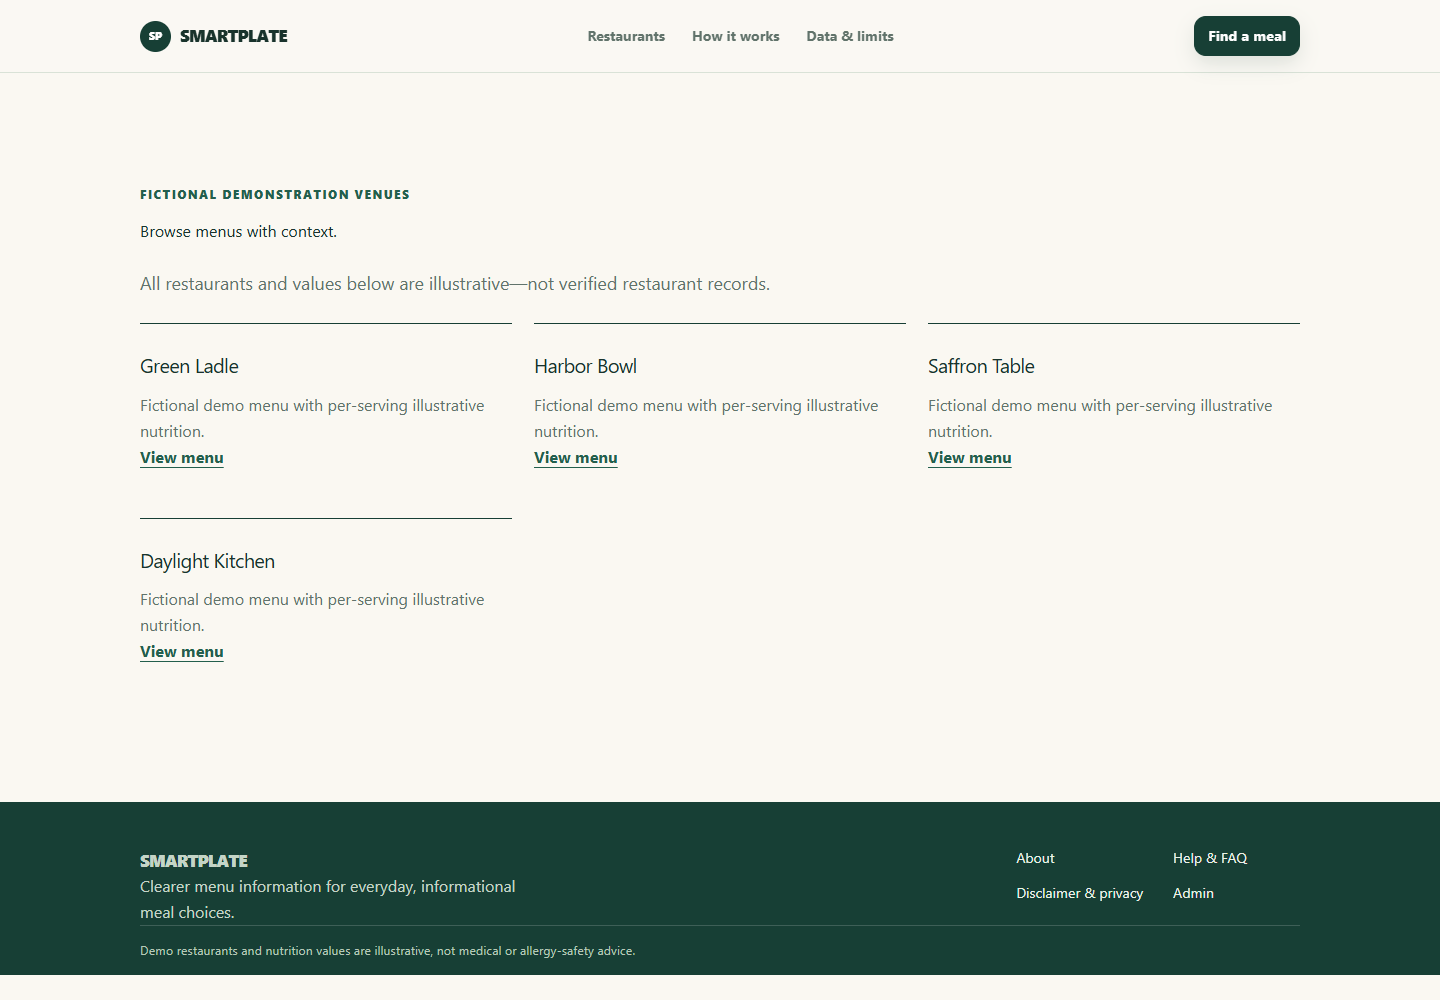
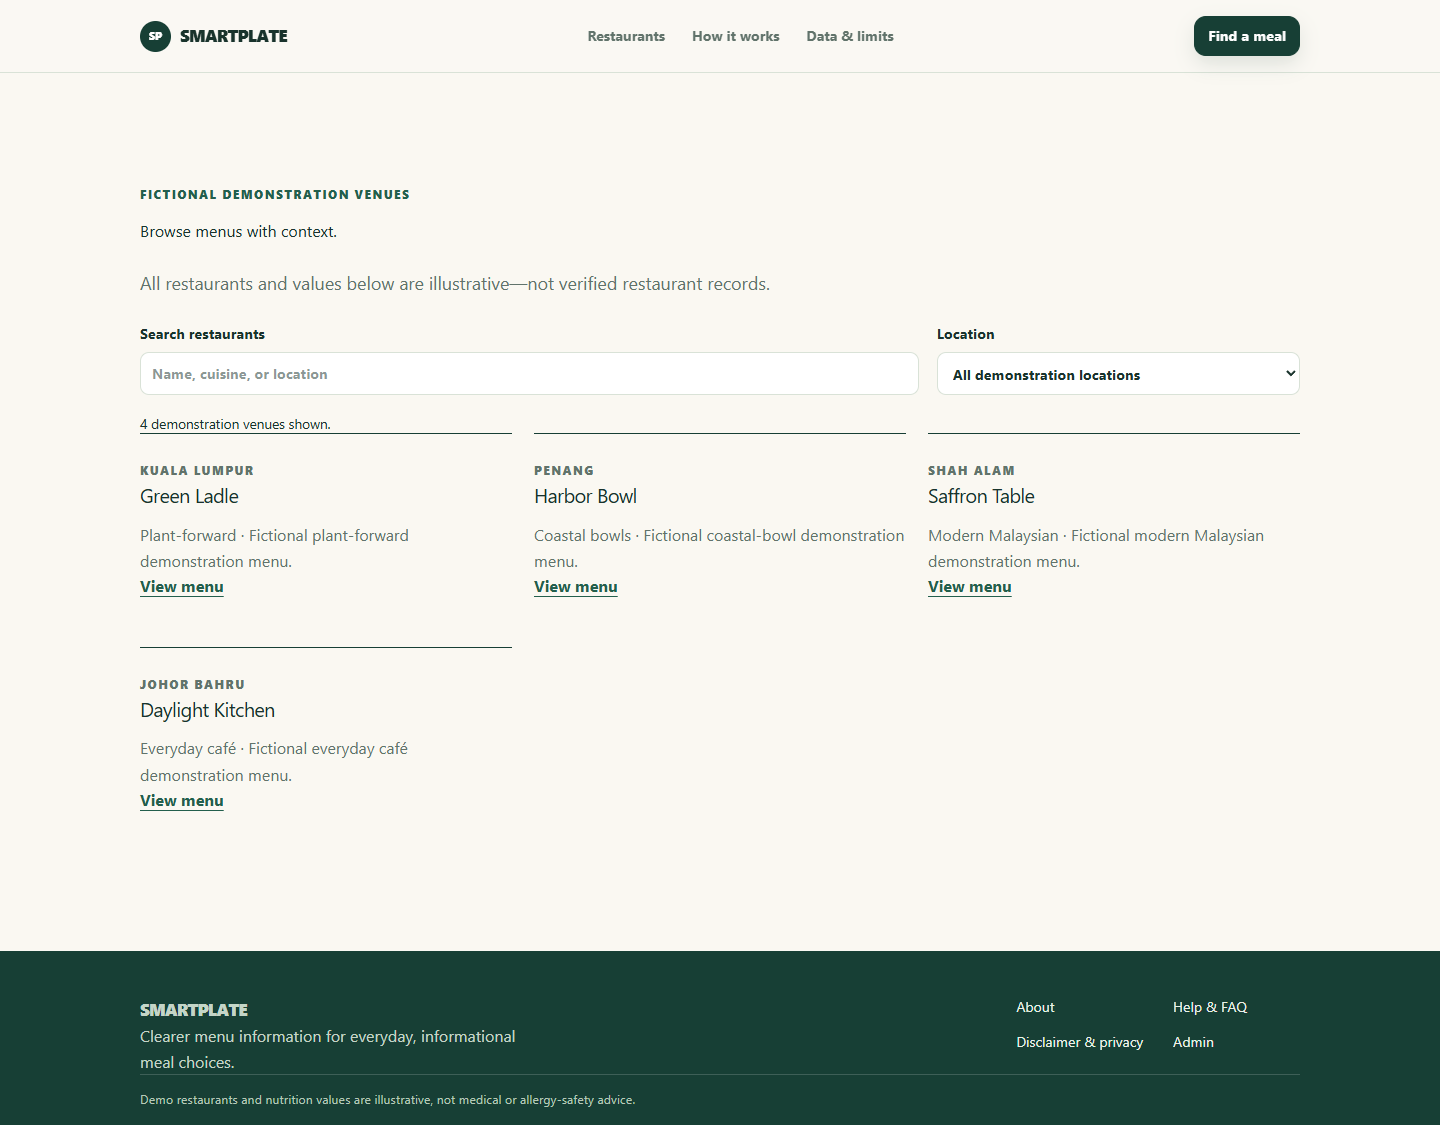
feat(directory): add searchable demo restaurants

diff --git a/src/components/restaurant-directory.tsx b/src/components/restaurant-directory.tsx
@@ -1,0 +1,85 @@
+"use client";
+
+import Link from "next/link";
+import { useMemo, useState } from "react";
+import { demoRestaurants } from "@/lib/demo-data";
+
+export function RestaurantDirectory() {
+  const [query, setQuery] = useState("");
+  const [location, setLocation] = useState("ALL");
+  const locations = [...new Set(demoRestaurants.map((restaurant) => restaurant.location))];
+  const results = useMemo(() => {
+    const normalizedQuery = query.trim().toLowerCase();
+    return demoRestaurants.filter((restaurant) => {
+      const queryMatch = [restaurant.name, restaurant.cuisine, restaurant.location]
+        .join(" ")
+        .toLowerCase()
+        .includes(normalizedQuery);
+      return queryMatch && (location === "ALL" || restaurant.location === location);
+    });
+  }, [location, query]);
+
+  return (
+    <>
+      <div className="directory-controls" aria-label="Restaurant filters">
+        <label htmlFor="restaurant-search">
+          Search restaurants
+          <input
+            id="restaurant-search"
+            value={query}
+            onChange={(event) => setQuery(event.target.value)}
+            placeholder="Name, cuisine, or location"
+          />
+        </label>
+        <label htmlFor="restaurant-location">
+          Location
+          <select
+            id="restaurant-location"
+            value={location}
+            onChange={(event) => setLocation(event.target.value)}
+          >
+            <option value="ALL">All demonstration locations</option>
+            {locations.map((value) => (
+              <option key={value}>{value}</option>
+            ))}
+          </select>
+        </label>
+      </div>
+      <p className="form-hint" aria-live="polite">
+        {results.length} demonstration venues shown.
+      </p>
+      {results.length ? (
+        <div className="feature-grid">
+          {results.map((restaurant) => (
+            <article key={restaurant.slug}>
+              <p className="state-label">{restaurant.location}</p>
+              <h3>{restaurant.name}</h3>
+              <p>
+                {restaurant.cuisine} · {restaurant.description}
+              </p>
+              <Link className="text-link" href={`/restaurants/${restaurant.slug}`}>
+                View menu
+              </Link>
+            </article>
+          ))}
+        </div>
+      ) : (
+        <div className="empty-state">
+          <h2>No demonstration venues match</h2>
+          <p>
+            Clear the search or choose another location to view the bounded illustrative directory.
+          </p>
+          <button
+            className="button button-secondary"
+            onClick={() => {
+              setQuery("");
+              setLocation("ALL");
+            }}
+          >
+            Clear filters
+          </button>
+        </div>
+      )}
+    </>
+  );
+}

diff --git a/src/app/restaurants/page.tsx b/src/app/restaurants/page.tsx
@@ -1,8 +1,6 @@
-import Link from "next/link";
 import { SiteShell } from "@/components/site-shell";
-import { demoItems } from "@/lib/demo-data";
+import { RestaurantDirectory } from "@/components/restaurant-directory";
 export default function RestaurantsPage() {
-  const names = [...new Set(demoItems.map((item) => item.restaurant))];
   return (
     <SiteShell>
       <section className="shell section">
@@ -11,20 +9,7 @@ export default function RestaurantsPage() {
         <p className="lede">
           All restaurants and values below are illustrative—not verified restaurant records.
         </p>
-        <div className="feature-grid">
-          {names.map((name) => (
-            <article key={name}>
-              <h3>{name}</h3>
-              <p>Fictional demo menu with per-serving illustrative nutrition.</p>
-              <Link
-                className="text-link"
-                href={`/restaurants/${name.toLowerCase().replaceAll(" ", "-")}`}
-              >
-                View menu
-              </Link>
-            </article>
-          ))}
-        </div>
+        <RestaurantDirectory />
       </section>
     </SiteShell>
   );

diff --git a/src/app/globals.css b/src/app/globals.css
@@ -339,6 +339,41 @@ button:focus-visible {
   color: var(--muted);
   margin-top: 4px;
 }
+.directory-controls {
+  display: grid;
+  grid-template-columns: minmax(0, 1.5fr) minmax(220px, 0.7fr);
+  gap: 18px;
+  align-items: end;
+  margin-bottom: 18px;
+}
+.directory-controls label {
+  display: grid;
+  gap: 7px;
+  font-size: 0.9rem;
+  font-weight: 700;
+}
+.directory-controls input,
+.directory-controls select {
+  width: 100%;
+  min-height: 43px;
+  border: 1px solid var(--line);
+  border-radius: 9px;
+  background: #fff;
+  color: var(--ink);
+  padding: 9px 11px;
+}
+.empty-state {
+  border: 1px dashed var(--pine);
+  border-radius: 12px;
+  padding: 32px;
+  margin-top: 24px;
+}
+.empty-state h2 {
+  margin-top: 0;
+}
+.empty-state p {
+  color: var(--muted);
+}
 .site-footer {
   background: var(--forest);
   color: #eaf2e8;
@@ -436,6 +471,9 @@ button:focus-visible {
   }
   .admin-metrics,
   .admin-grid {
+    grid-template-columns: 1fr;
+  }
+  .directory-controls {
     grid-template-columns: 1fr;
   }
   .footer-grid {

diff --git a/src/lib/demo-data.ts b/src/lib/demo-data.ts
@@ -14,6 +14,37 @@ export type DemoItem = {
   allergenDisclosure: "UNKNOWN" | "PRESENT";
   sourceType: "ILLUSTRATIVE";
 };
+
+export const demoRestaurants = [
+  {
+    slug: "green-ladle",
+    name: "Green Ladle",
+    cuisine: "Plant-forward",
+    location: "Kuala Lumpur",
+    description: "Fictional plant-forward demonstration menu.",
+  },
+  {
+    slug: "harbor-bowl",
+    name: "Harbor Bowl",
+    cuisine: "Coastal bowls",
+    location: "Penang",
+    description: "Fictional coastal-bowl demonstration menu.",
+  },
+  {
+    slug: "saffron-table",
+    name: "Saffron Table",
+    cuisine: "Modern Malaysian",
+    location: "Shah Alam",
+    description: "Fictional modern Malaysian demonstration menu.",
+  },
+  {
+    slug: "daylight-kitchen",
+    name: "Daylight Kitchen",
+    cuisine: "Everyday café",
+    location: "Johor Bahru",
+    description: "Fictional everyday café demonstration menu.",
+  },
+] as const;
 export const demoItems: DemoItem[] = [
   {
     slug: "green-ladle-garden-bowl",

diff --git a/tests/e2e/public.spec.ts b/tests/e2e/public.spec.ts
@@ -16,7 +16,17 @@ test("comparison preserves unavailable values", async ({ page }) => {
   await expect(page.getByText("Not available").first()).toBeVisible();
 });
 
-test("strict allergy-related exclusions are never presented as safe", async ({ page }, testInfo) => {
+test("restaurant search has a truthful empty state", async ({ page }) => {
+  await page.goto("/restaurants");
+  await page.getByLabel(/search restaurants/i).fill("no-such-venue");
+  await expect(page.getByRole("heading", { name: /no demonstration venues match/i })).toBeVisible();
+  await page.getByRole("button", { name: /clear filters/i }).click();
+  await expect(page.getByText(/4 demonstration venues shown/i)).toBeVisible();
+});
+
+test("strict allergy-related exclusions are never presented as safe", async ({
+  page,
+}, testInfo) => {
   await page.goto("/recommend");
   await page.getByLabel(/allergy-related exclusions/i).fill("peanuts");
   await expect(page.getByRole("heading", { name: /unable to verify/i })).toBeVisible();

diff --git a/docs/implementation-progress.md b/docs/implementation-progress.md
@@ -100,3 +100,10 @@
 - Scope: added a versioned PostgreSQL baseline migration, a strict preference flow with non-persisted allergy-related exclusions, a Playwright safety journey, a protected admin restaurant form, transactional admin audit creation, and a PostgreSQL-backed CI workflow definition.
 - Verification: `npm run lint`, `npm run typecheck` and `npm test` passed (10 unit tests); `npm run test:e2e` passed (9 checks across 375px, 768px and 1440px). The preference capture at `docs/evidence/mobile-375-recommendations.png` was visually reviewed.
 - Unverified: `db:deploy`, seed idempotency, CI execution, authenticated admin mutation, and live PostgreSQL relations require Docker Desktop's Linux engine or a disposable PostgreSQL URL. The workflow is configured to execute migration, seed, lint, typecheck, unit, production build and browser checks when GitHub Actions runs.
+
+## CP-06 â€” Bounded directory interaction
+
+- Timestamp: 2026-10-15 (Asia/Karachi)
+- Scope: added an accessible name/cuisine/location search and location filter to the transparent illustrative restaurant directory, including a resettable no-results state.
+- Verification: lint, strict typecheck and 10 unit tests passed; production Playwright passed 12/12 across 375px, 768px and 1440px. The updated desktop restaurant directory capture was visually reviewed.
+- Limit: the interactive fallback directory is typed illustrative data. Its PostgreSQL query path, pagination and published-status enforcement still require a running test database.

diff --git a/docs/test-results.md b/docs/test-results.md
@@ -38,3 +38,8 @@
 - `npm run test:e2e`: passed, 9/9 after adding the strict allergy-related exclusion journey at each viewport.
 - Acceptance criterion: an incomplete allergen disclosure is grouped as “Unable to verify” and is explicitly not marked safe.
 - Visual evidence: `docs/evidence/mobile-375-recommendations.png`, `docs/evidence/tablet-768-recommendations.png`, and `docs/evidence/desktop-1440-recommendations.png`; the mobile capture was visually reviewed.
+
+## Restaurant directory filtering
+
+- `npm run test:e2e`: passed, 12/12 after adding restaurant query/no-results/reset coverage at all three viewports.
+- The refreshed `docs/evidence/desktop-1440-restaurants.png` capture was visually reviewed after the filter controls were added.
